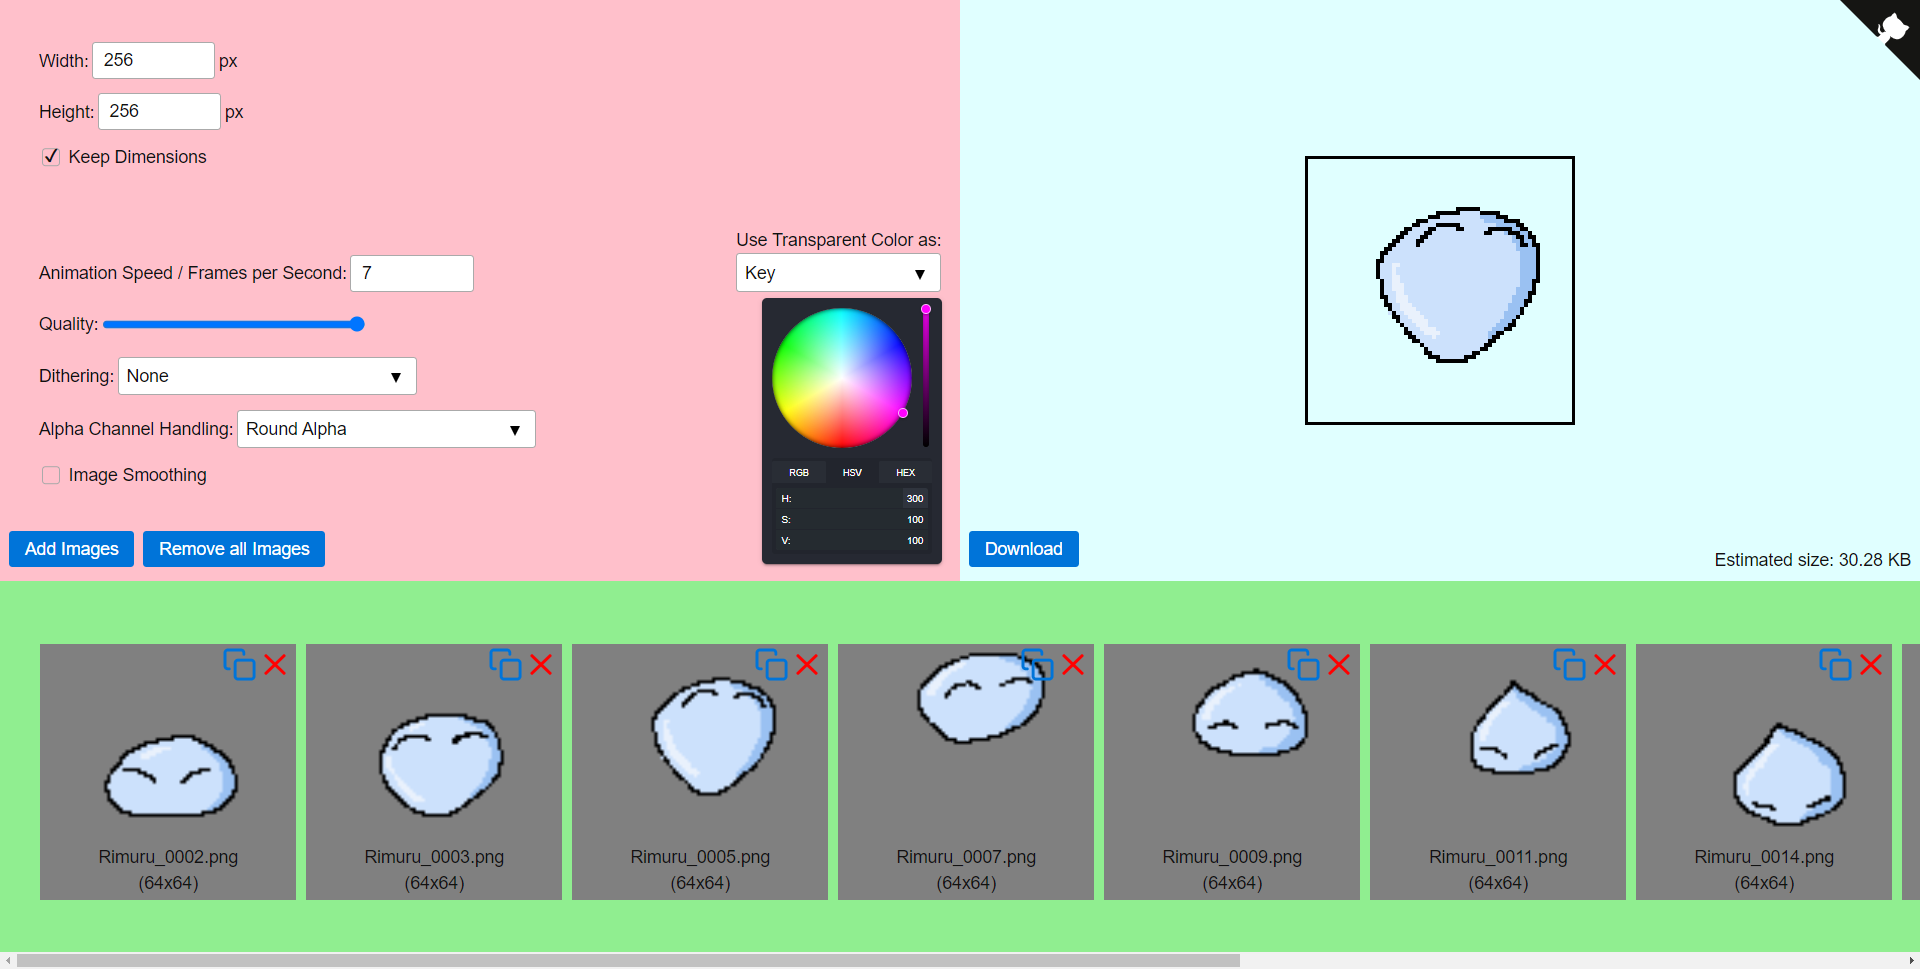
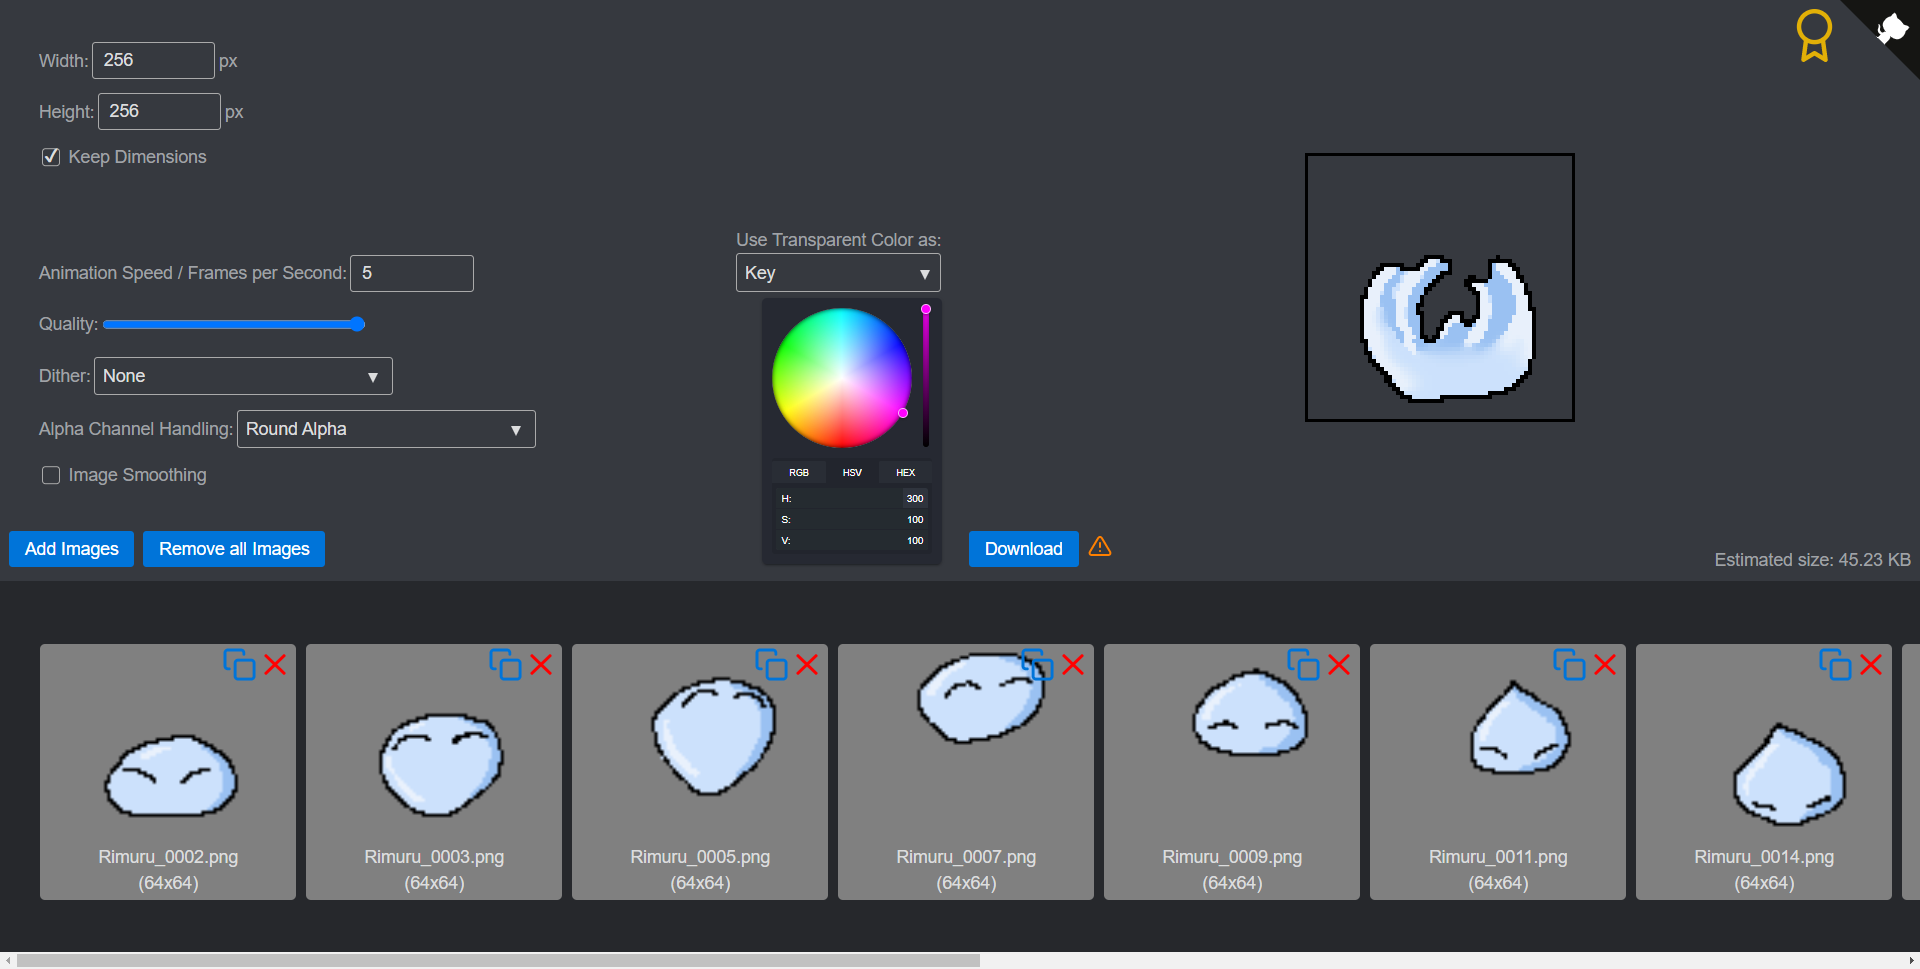
Updated README and screenshot

diff --git a/index.html b/index.html
@@ -91,7 +91,7 @@
             </div>
             <div class="previewInfo left flexRow">
                 <label><button id="downloadGif">Download</button></label>
-                <div id="warningIcon"></div>
+                <div id="warningIcon" title="Warnings"></div>
             </div>
         </div>
         <div id="timeline">

diff --git a/README.md b/README.md
@@ -1,13 +1,37 @@
 # GifBuilder
 
-description TBD
+[GifBuilder](https://h0rn0chse.github.io/GifBuilder/) is a tools to combine frames into a gif. The images are only saved within the browser cache. The functionality of exporting animated gifs can be quite limited in drawing programs (e.g. Clip Studio Paint). This tool tries to close this gap and simplifies the handling of creating gifs.
 
 * [Usage](#usage)
 * [Libraries](#libraries)
 
-## Usage
+<img src="./docs/screenshot.png" title="Screenshot" />
 
-TBD
+## Usage
+The standard settings are optimized for images with transparency. You can add the images and rearrange them. Please look [here](#transparent-color) in case you want to have a gif without transparency. You get warnings displayed which give you hints in case the result of your gif does not match your expectation.
+
+### Size and Dimensions
+The frames get always resized to the target width and height. By setting `Keep Dimensions` you can toggle between fit to size and stretch.
+
+### Quality
+There is no real reason to lower the quality other than to lower the calculation time.
+
+### Dither
+This option only has an effect when your frames contain more than 255 colors. You can select the color selection algorithm with this option.
+
+### Alpha Channel Handling
+This option controls how to deal with semi-transparent pixels. This tool does not support semi-transparent pixels (although it is somehow possible). It might also happen due to resizing ion the browser that semi-transparent pixels are added.
+ * __Round Alpha:__ Rounds the values of the alpha channel. Values lower than 127 gets converted to transparent and values greater than 126 get converted to opaque. This is the best option for most use cases.
+ * __Pixel Removal:__ Alpha channel values greater than 0 and smaller than 255 get converted to transparent. This option leads to smaller borders than the initial image provides.
+ * __Alpha Removal:__ Alpha channel values greater than 0 and smaller than 255 get converted to opaque. This option leads to bigger borders than the initial image provides.
+
+### Image Smoothing
+This option only has an effect when your frames get resized. This option helps to achieve smoother color transitions. In case your frames are pixel art it is better to keep this option off.
+
+### Transparent Color
+The effect of the color depends on the selected option. Frames containing no transparent pixels (or the pixels in the selected color) at all get transparent in case the option `key` is selected.
+ * __Key:__ The color is used as color key like in a green screen. This color should not be part of the frame. Otherwise these parts get transparent as well.
+ * __Background:__ The color is used as background color for frames containg transparent pixels.
 
 ## Libraries
 
